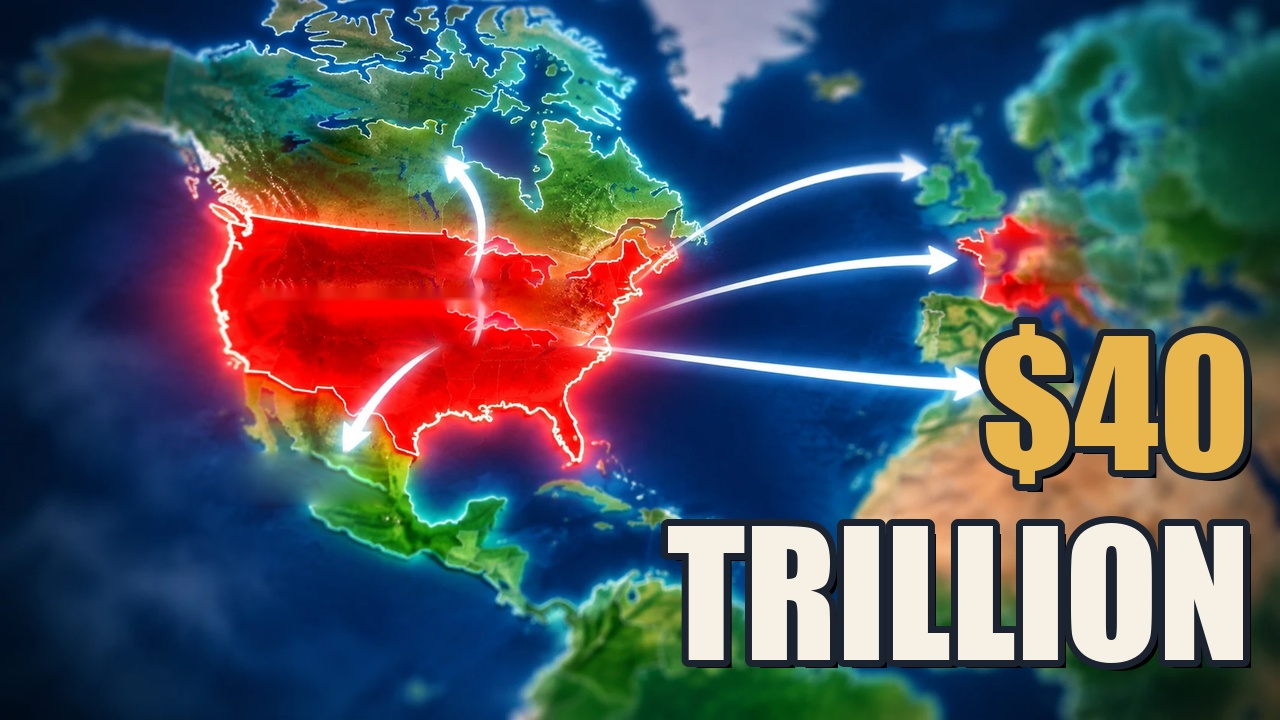
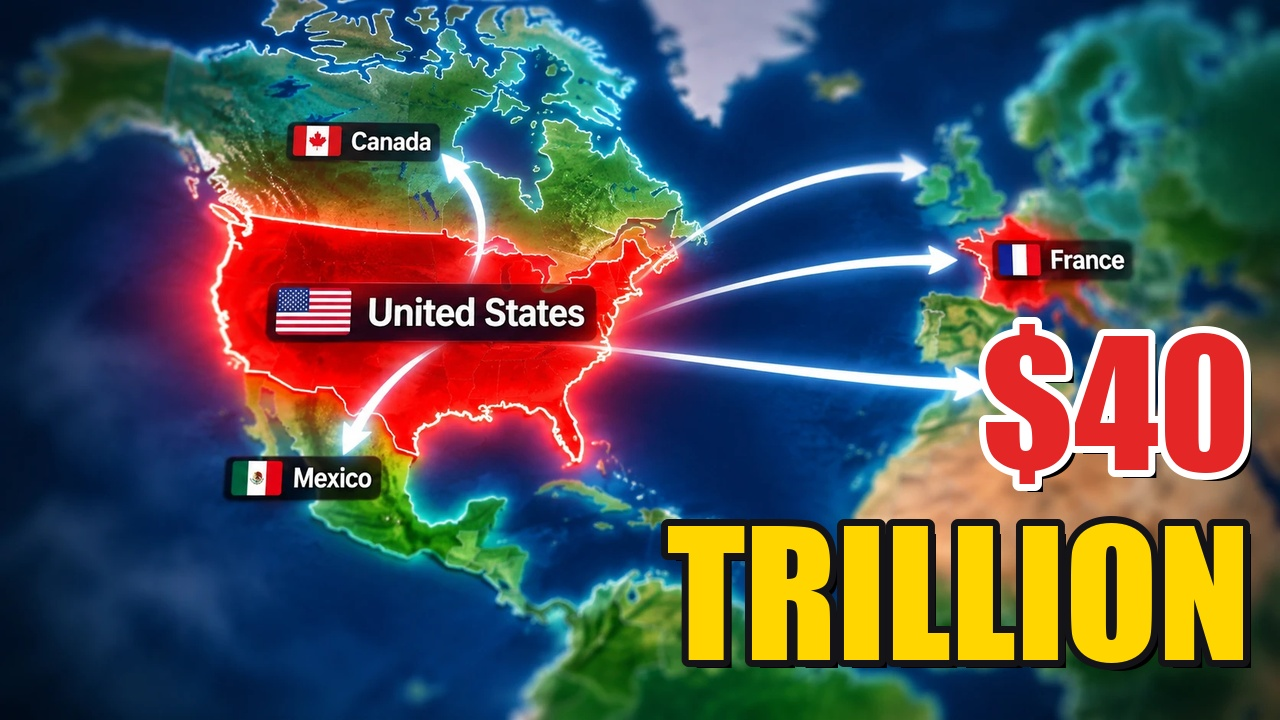
EP06 thumbnail: labels back, $40 red, TRILLION yellow

diff --git a/studio/tools/thumb_ep06_map.py b/studio/tools/thumb_ep06_map.py
@@ -1,23 +1,13 @@
-"""EP06 thumbnail: map photo, labels inpainted out, '$40 TRILLION'."""
-import sys, cv2, numpy as np
+"""EP06 thumbnail: map photo with its labels, '$40' red + 'TRILLION' yellow."""
+import sys
 from PIL import Image, ImageDraw, ImageFont
 src, out = sys.argv[1], sys.argv[2]
-img = cv2.imread(src)  # 1672x941
-# cover each label with a nearby patch of the same map, blended in
-for (x0, y0, x1, y1), dy in [((362,150,588,220), -72), ((334,360,794,456), -98), ((280,586,510,664), 80), ((1282,302,1492,376), -76)]:
-    patch = img[y0+dy:y1+dy, x0:x1].copy()
-    m = np.full(patch.shape[:2], 255, np.uint8)
-    img = cv2.seamlessClone(patch, img, m, ((x0+x1)//2, (y0+y1)//2), cv2.NORMAL_CLONE)
-# the US patch carries a copy of the northern border line: paint it out
-m2 = np.zeros(img.shape[:2], np.uint8)
-cv2.rectangle(m2, (334, 376), (640, 404), 255, -1)
-img = cv2.inpaint(img, m2, 7, cv2.INPAINT_TELEA)
 W, H = 1280, 720
-im = Image.fromarray(cv2.cvtColor(img, cv2.COLOR_BGR2RGB)).resize((W, H), Image.LANCZOS)
+im = Image.open(src).convert('RGB').resize((W, H), Image.LANCZOS)
 d = ImageDraw.Draw(im)
 imp = ImageFont.truetype('/System/Library/Fonts/Supplemental/Impact.ttf', 170)
-gold, bone, ink = (232,182,76), (246,241,228), (27,34,48)
-for y, t, c in [(470, '$40', gold), (660, 'TRILLION', bone)]:
-    d.text((1258, y+8), t, font=imp, fill=(0,0,0), anchor='rs')
-    d.text((1250, y), t, font=imp, fill=c, stroke_width=7, stroke_fill=ink, anchor='rs')
+red, yellow, ink = (228, 38, 38), (255, 214, 0), (20, 20, 24)
+for y, t, c in [(470, '$40', red), (660, 'TRILLION', yellow)]:
+    d.text((1258, y+8), t, font=imp, fill=(0, 0, 0), anchor='rs')
+    d.text((1250, y), t, font=imp, fill=c, stroke_width=7, stroke_fill=ink if c == yellow else (255, 255, 255), anchor='rs')
 im.save(out, quality=95)
